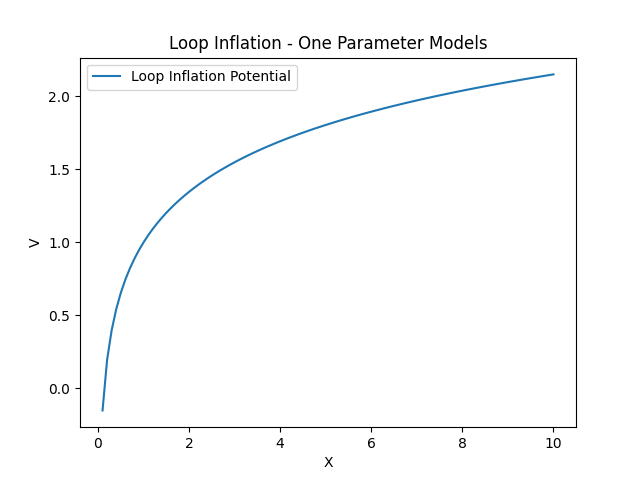
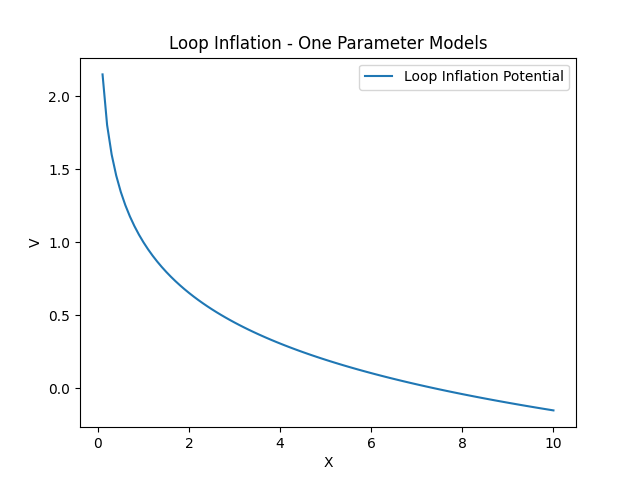
main3005

diff --git a/main.py b/main.py
@@ -6,7 +6,7 @@ def loop_inflation_potential(X, alpha):
     return M**4 * (1 + alpha * np.log(X))
 
 # Parâmetros
-alpha = 0.5  # Valor para alpha 
+alpha = -0.5  # Valor para alpha 
 
 # Dados para o gráfico
 X_vals = np.linspace(0.1, 10, 100)  # Intervalo de valores para X
